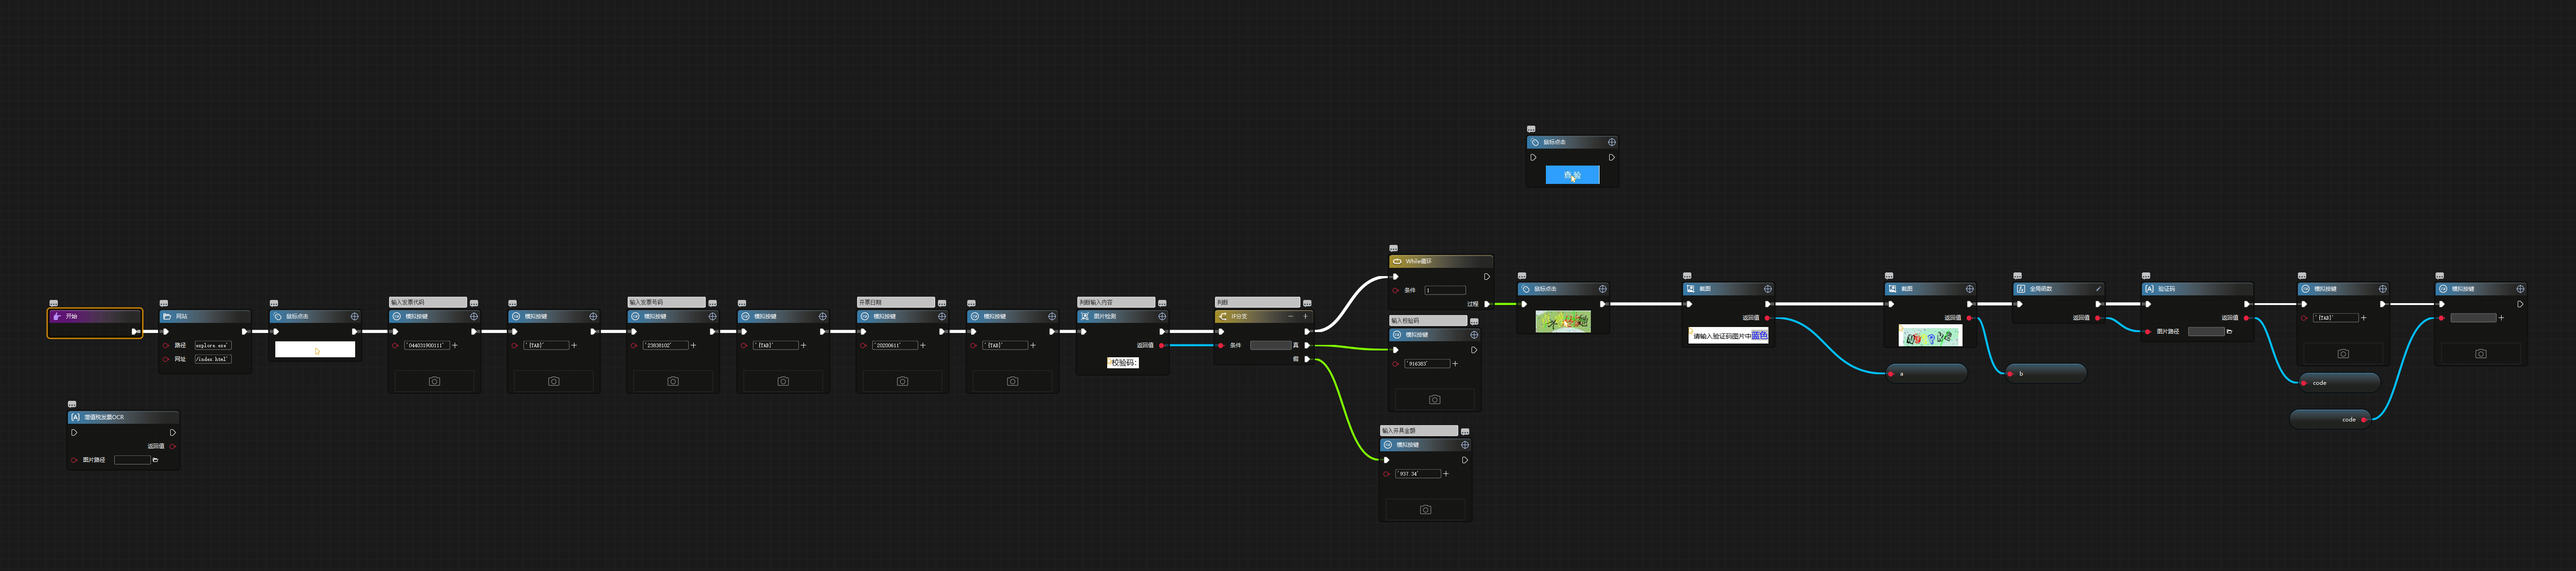
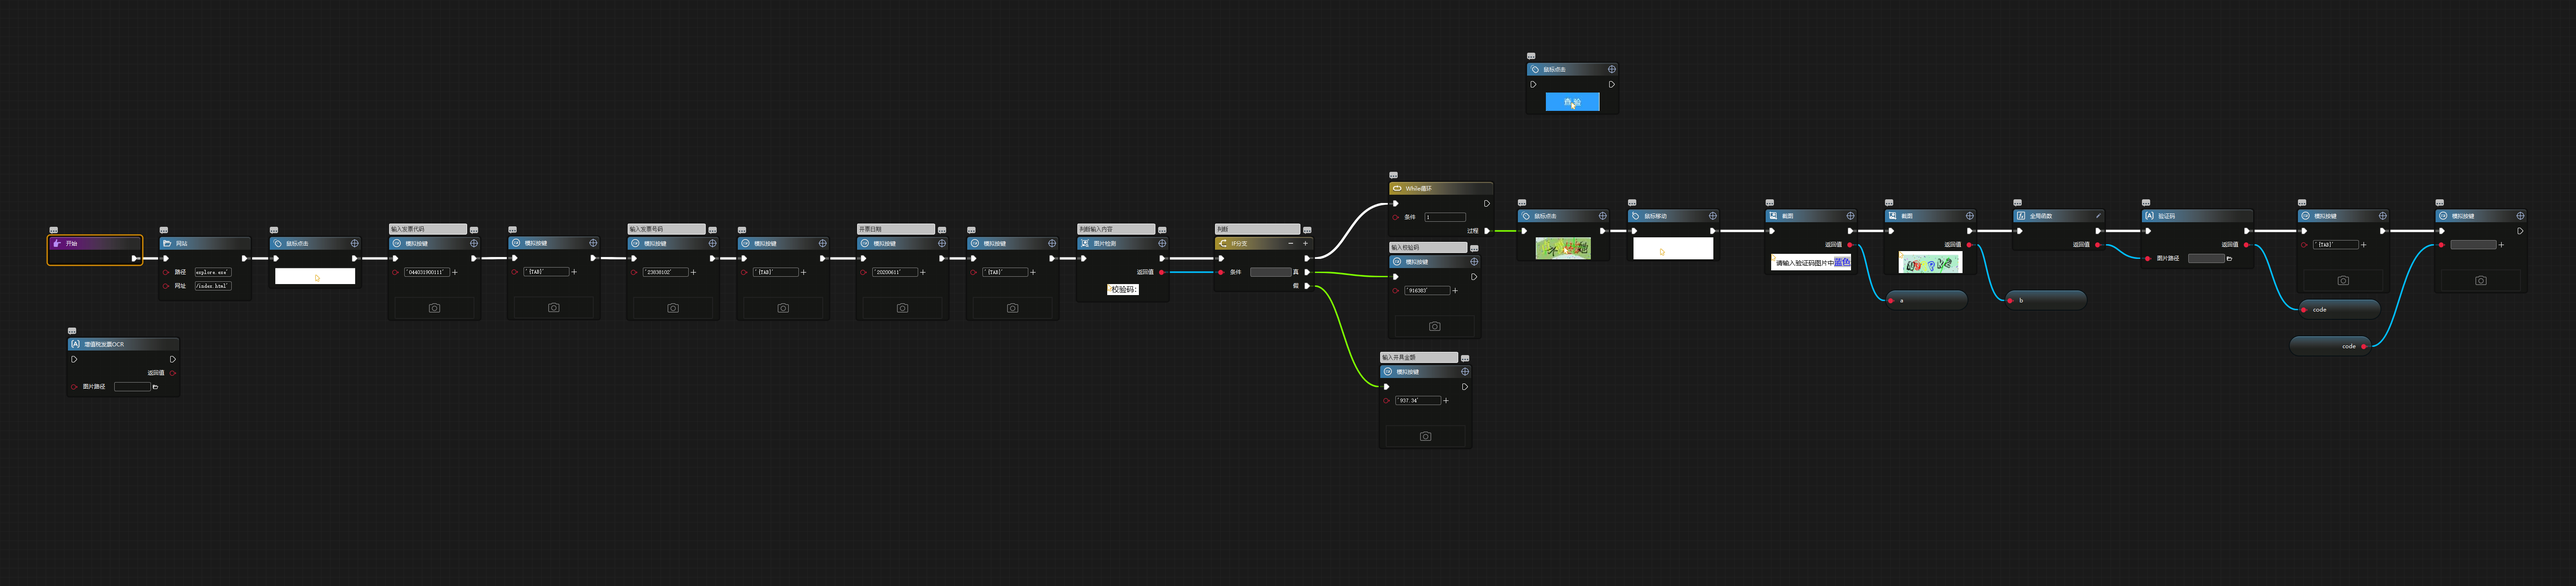
20200623151728

diff --git a/codes/Main.py b/codes/Main.py
@@ -1,5 +1,5 @@
 # coding=utf-8
-# 编译日期：2020-06-23 15:13:53
+# 编译日期：2020-06-23 15:17:27
 # 版权所有：www.i-search.com.cn
 import time
 import pdb
@@ -46,10 +46,12 @@ class lanhe_fapiao:
         # 鼠标点击
         self.__logger.debug('Flow:flow1,StepNodeTag:2314162044320,Note:')
         iie.do_click_pos(win_title=r'国家税务总局全国增值税发票查验平台 - Internet Explorer',url=r'https://inv-veri.chinatax.gov.cn/index.html',selector=r'#fpdm',button=r'left',curson=r'center',times=1,run_mode=r'unctrl',continue_on_error=r'break',waitfor=10)
+        time.sleep(0.8)
         # 键盘输入
         self.__logger.debug('Flow:flow1,StepNodeTag:2314172690122,Note:输入发票代码')
         time.sleep(0.5)
         ikeyboard.key_send_cs(text='044031900111',waitfor=10)
+        time.sleep(0.6)
         # 键盘输入
         self.__logger.debug('Flow:flow1,StepNodeTag:2314184991924,Note:')
         time.sleep(0.5)
@@ -73,6 +75,7 @@ class lanhe_fapiao:
         # 图像检测
         self.__logger.debug('Flow:flow1,StepNodeTag:2314280051638,Note:判断输入内容')
         tvar2314280051638 = iimg.img_exists(win_title=r'国家税务总局全国增值税发票查验平台 - Internet Explorer',img_res_path=self.path,image=r'snapshot_20200623142820581.png',fuzzy=True,confidence=0.85,waitfor=30)
+        time.sleep(0.5)
         # IF-N分支
         self.__logger.debug('Flow:flow1,StepNodeTag:2314270666737,Note:判断')
         if tvar2314280051638:
@@ -93,12 +96,17 @@ class lanhe_fapiao:
             time.sleep(0.5)
             iie.do_click_pos(win_title=r'国家税务总局全国增值税发票查验平台 - Internet Explorer',url=r'https://inv-veri.chinatax.gov.cn/index.html',selector=r'#yzm_img',button=r'left',curson=r'center',times=1,run_mode=r'unctrl',continue_on_error=r'break',waitfor=10)
             time.sleep(5)
+            # 鼠标移动
+            self.__logger.debug('Flow:flow1,StepNodeTag:23151501542118,Note:')
+            iie.do_moveto_pos(win_title=r'国家税务总局全国增值税发票查验平台 - Internet Explorer',url=r'https://inv-veri.chinatax.gov.cn/index.html',selector=r'#content2 > TABLE:nth-of-type(1) > TBODY:nth-of-type(1) > TR:nth-of-type(6) > TD:nth-of-type(1)',curson=r'center',waitfor=10)
             # 截图
             self.__logger.debug('Flow:flow1,StepNodeTag:2314353040452,Note:')
             a = iimg.capture_image(win_title=r'国家税务总局全国增值税发票查验平台 - Internet Explorer',win_text=r'',left_indent=1253,top_indent=572,width=210,height=36,waitfor=30)
+            time.sleep(0.8)
             # 截图
             self.__logger.debug('Flow:flow1,StepNodeTag:2314360485954,Note:')
             b = iimg.capture_image(win_title=r'国家税务总局全国增值税发票查验平台 - Internet Explorer',win_text=r'',left_indent=992,top_indent=620,width=139,height=64,waitfor=30)
+            time.sleep(0.8)
             # 自定义函数
             self.__logger.debug('Flow:flow1,StepNodeTag:2314544729489,Note:')
             tvar2314544729489 = GlobalFun.code_color(a,b)

diff --git a/codes/Main_d.py b/codes/Main_d.py
@@ -1,5 +1,5 @@
 # coding=utf-8
-# 编译日期：2020-06-23 15:13:53
+# 编译日期：2020-06-23 15:17:27
 # 版权所有：www.i-search.com.cn
 import time
 import pdb
@@ -46,10 +46,12 @@ class lanhe_fapiao:
         # 鼠标点击
         self.__logger.debug('Flow:flow1,StepNodeTag:2314162044320,Note:')
         iie.do_click_pos(win_title=r'国家税务总局全国增值税发票查验平台 - Internet Explorer',url=r'https://inv-veri.chinatax.gov.cn/index.html',selector=r'#fpdm',button=r'left',curson=r'center',times=1,run_mode=r'unctrl',continue_on_error=r'break',waitfor=10)
+        time.sleep(0.8)
         # 键盘输入
         self.__logger.debug('Flow:flow1,StepNodeTag:2314172690122,Note:输入发票代码')
         time.sleep(0.5)
         ikeyboard.key_send_cs(text='044031900111',waitfor=10)
+        time.sleep(0.6)
         # 键盘输入
         self.__logger.debug('Flow:flow1,StepNodeTag:2314184991924,Note:')
         time.sleep(0.5)
@@ -73,6 +75,7 @@ class lanhe_fapiao:
         # 图像检测
         self.__logger.debug('Flow:flow1,StepNodeTag:2314280051638,Note:判断输入内容')
         tvar2314280051638 = iimg.img_exists(win_title=r'国家税务总局全国增值税发票查验平台 - Internet Explorer',img_res_path=self.path,image=r'snapshot_20200623142820581.png',fuzzy=True,confidence=0.85,waitfor=30)
+        time.sleep(0.5)
         # IF-N分支
         self.__logger.debug('Flow:flow1,StepNodeTag:2314270666737,Note:判断')
         if tvar2314280051638:
@@ -93,12 +96,17 @@ class lanhe_fapiao:
             time.sleep(0.5)
             iie.do_click_pos(win_title=r'国家税务总局全国增值税发票查验平台 - Internet Explorer',url=r'https://inv-veri.chinatax.gov.cn/index.html',selector=r'#yzm_img',button=r'left',curson=r'center',times=1,run_mode=r'unctrl',continue_on_error=r'break',waitfor=10)
             time.sleep(5)
+            # 鼠标移动
+            self.__logger.debug('Flow:flow1,StepNodeTag:23151501542118,Note:')
+            iie.do_moveto_pos(win_title=r'国家税务总局全国增值税发票查验平台 - Internet Explorer',url=r'https://inv-veri.chinatax.gov.cn/index.html',selector=r'#content2 > TABLE:nth-of-type(1) > TBODY:nth-of-type(1) > TR:nth-of-type(6) > TD:nth-of-type(1)',curson=r'center',waitfor=10)
             # 截图
             self.__logger.debug('Flow:flow1,StepNodeTag:2314353040452,Note:')
             a = iimg.capture_image(win_title=r'国家税务总局全国增值税发票查验平台 - Internet Explorer',win_text=r'',left_indent=1253,top_indent=572,width=210,height=36,waitfor=30)
+            time.sleep(0.8)
             # 截图
             self.__logger.debug('Flow:flow1,StepNodeTag:2314360485954,Note:')
             b = iimg.capture_image(win_title=r'国家税务总局全国增值税发票查验平台 - Internet Explorer',win_text=r'',left_indent=992,top_indent=620,width=139,height=64,waitfor=30)
+            time.sleep(0.8)
             # 自定义函数
             self.__logger.debug('Flow:flow1,StepNodeTag:2314544729489,Note:')
             tvar2314544729489 = GlobalFun.code_color(a,b)
